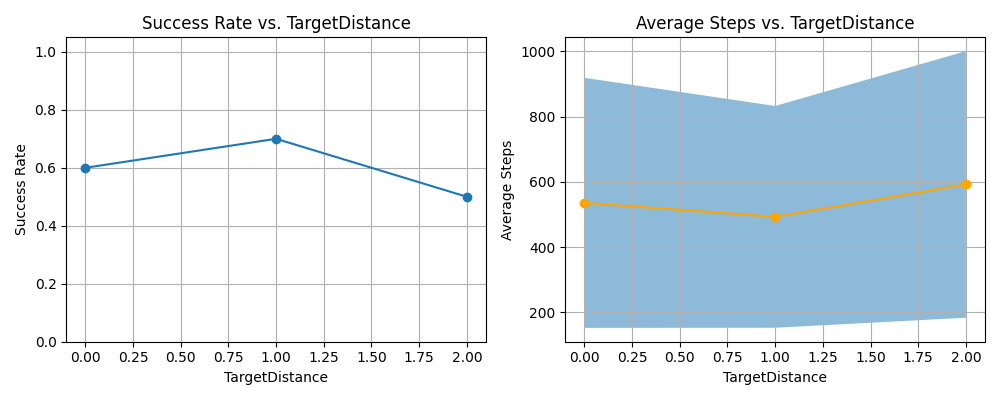
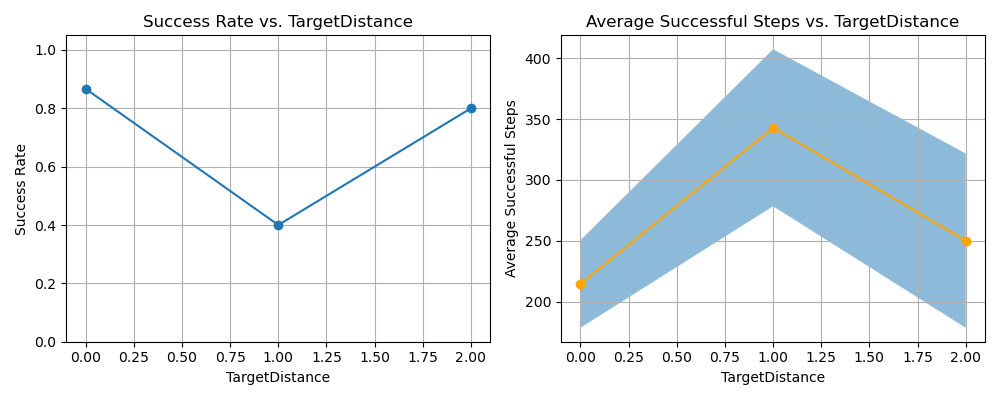
Added tdqm, added GUI, changed step logic

diff --git a/evaluate_trained_dqn_niek.py b/evaluate_trained_dqn_niek.py
@@ -5,6 +5,7 @@ from pathlib import Path
 import matplotlib.pyplot as plt
 from agents.dqn import DQNAgent
 from world.environment import Environment
+from tqdm import tqdm
 from tqdm import trange
 import numpy as np
 import argparse
@@ -18,12 +19,13 @@ RESULTS_DIR.mkdir(exist_ok=True)
 RESULTS_TXT = RESULTS_DIR / "stochasticity_results.txt"
 
 
-def run_episode(env, agent, name_exp, delivery_zones=None, max_steps=1000):
+def run_episode(env, agent, name_exp, delivery_zones=None, max_steps=500):
+    """Changed max steps to 500, we need to decide on a good value"""
+    no_gui = True
     if name_exp != "target_distance":
-        state, _ = env.reset()
+        state, _ = env.reset(no_gui= no_gui)
     else:
-        state, _ = env.reset(delivery_zones=delivery_zones)
-    
+        state, _ = env.reset(no_gui=no_gui, delivery_zones=delivery_zones)
     total_reward = 0
     steps = 0
     for _ in range(max_steps):
@@ -31,25 +33,28 @@ def run_episode(env, agent, name_exp, delivery_zones=None, max_steps=1000):
         state, reward, terminated, truncated, _ = env.step(action)
         total_reward += reward
         steps += 1
+        if not no_gui:
+            env.render()
         if terminated or truncated:
             break
     return terminated, steps
 
 
-def experiment_stochasticity(agent, levels=(0.0, 0.1, 0.3, 0.5)):
+def experiment_stochasticity(agent, levels=(0.5, 0.75, 0.85, 0.95), reps=20):
+    """ changed to only count SUCCESFULL average steps"""
     success_rates = []
     avg_steps = []
     std_steps = []
-    for sigma in levels:
+    for sigma in tqdm(levels, desc="Processing Stochasticity Levels"):
         successes = 0
         steps_record = []
-        for _ in range(10):
+        for _ in range(reps):
             env = Environment(sigma=sigma)
             success, steps = run_episode(env, agent, "stochasticity")
             if success:
                 successes += 1
-            steps_record.append(steps)
-        success_rates.append(successes / 10)
+                steps_record.append(steps)
+        success_rates.append(successes / reps)
         avg_steps.append(np.mean(steps_record))
         std_steps.append(np.std(steps_record))
 
@@ -57,26 +62,29 @@ def experiment_stochasticity(agent, levels=(0.0, 0.1, 0.3, 0.5)):
     append_to_txt("Stochasticity", levels, success_rates, avg_steps)
 
 
-def experiment_difficulty(agent):
+def experiment_difficulty(agent, reps =20):
+    """ changed to only count SUCCESFULL average steps"""
+
     # Custom obstacle layouts simulating difficulty
     levels = [0, 1, 2, 3, 4, 5]
     success_rates = []
     avg_steps = []
     std_steps = []
 
-    for i in levels:
+    for i in tqdm(levels, desc="Processing Difficulty Levels"):
+        
         # Generate i boxes as extra obstacles to simulate increasing difficulty
         extra_obstacles = [(15 + 0.2 * j, 4 + 0.2 * j, 15.3 + 0.2 * j, 4.3 + 0.2 * j) for j in range(i)]
         successes = 0
         steps_record = []
-        for _ in range(10):
+        for _ in range(reps):
             env = Environment(extra_obstacles=extra_obstacles)
             env.reset(extra_obstacles=extra_obstacles)
             success, steps = run_episode(env, agent, "difficulty")
             if success:
                 successes += 1
-            steps_record.append(steps)
-        success_rates.append(successes / 10)
+                steps_record.append(steps)
+        success_rates.append(successes / reps)
         avg_steps.append(np.mean(steps_record))
         std_steps.append(np.std(steps_record))
 
@@ -84,14 +92,15 @@ def experiment_difficulty(agent):
     append_to_txt("Difficulty", levels, success_rates, avg_steps)
 
 
-def experiment_target_distance(agent):
+def experiment_target_distance(agent, reps=20):
+    """ changed to only count SUCCESFULL average steps"""
     # Custom levels that adjust item and delivery separation
     levels = [0, 1, 2]
     success_rates = []
     avg_steps = []
     std_steps = []
 
-    for i in levels:
+    for i in tqdm(levels, desc="Processing Target Distance Levels"):
         '''
         margin = 10 + i * 0.5
         delivery_zones = [
@@ -104,14 +113,14 @@ def experiment_target_distance(agent):
         delivery_zones = random.sample(zones, 3)
         successes = 0
         steps_record = []
-        for _ in range(10):
+        for _ in range(reps):
             env = Environment()
             env.reset(delivery_zones=delivery_zones)
             success, steps = run_episode(env, agent, "target_distance")
             if success:
                 successes += 1
-            steps_record.append(steps)
-        success_rates.append(successes / 10)
+                steps_record.append(steps) 
+        success_rates.append(successes / reps)
         avg_steps.append(np.mean(steps_record))
         std_steps.append(np.std(steps_record))
 
@@ -133,9 +142,9 @@ def plot_results(x_values, success_rates, avg_steps, std_steps, xlabel, filename
     plt.subplot(1, 2, 2)
     plt.plot(x_values, avg_steps, marker="o", color="orange")
     plt.fill_between(x_values, avg_steps - std_steps, avg_steps + std_steps, alpha=0.5)
-    plt.title(f"Average Steps vs. {xlabel}")
+    plt.title(f"Average Successful Steps vs. {xlabel}")  # Changed here
     plt.xlabel(xlabel)
-    plt.ylabel("Average Steps")
+    plt.ylabel("Average Successful Steps")                # Changed here
     plt.grid(True)
 
     plt.tight_layout()
@@ -154,14 +163,16 @@ def append_to_txt(title, x, success_rates, steps):
 def evaluate(model_path: Path):
     agent = DQNAgent.load(str(model_path), state_size=15, action_size=6)
     agent.epsilon = 0.0
-    experiment_stochasticity(agent)
+    reps = 10
+    print("Agent Loaded Successfully!")
+    experiment_stochasticity(agent, reps = reps)
     print("Experiment Stochasticity Finished!")
-    experiment_difficulty(agent)
+    experiment_difficulty(agent, reps = reps)
     print("Experiment Difficulty Finished!")
-    experiment_target_distance(agent)
+    experiment_target_distance(agent, reps = reps)
     print("Experiment Target Distance Finished!")
 
-if __name__ == "__main__":
+if __name__ == "__main__":  
     p = argparse.ArgumentParser()
     p.add_argument("model", type=Path, help="Path to .pth checkpoint")
     args = p.parse_args()
